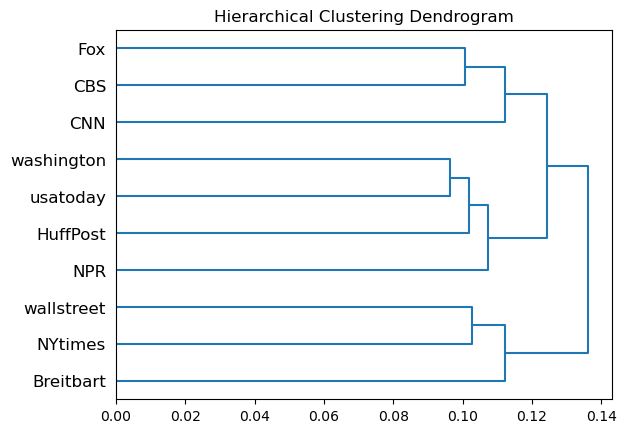
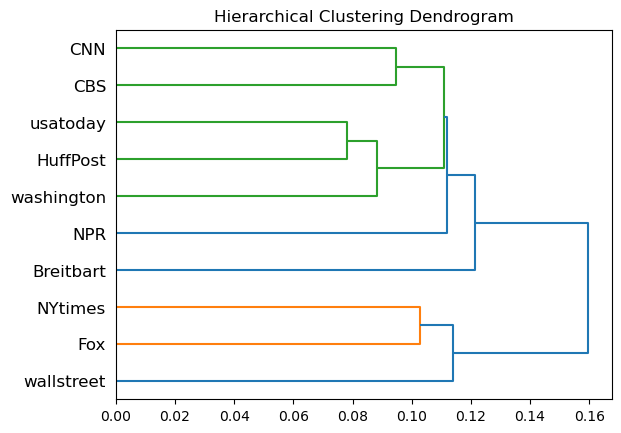
some problems

diff --git a/program/analysis.py b/program/analysis.py
@@ -106,13 +106,14 @@ class BaseAnalysis(ABC):
 
 
 class ClusterAnalysis(BaseAnalysis):
-    def __init__(self, misc_args: MiscArgument, model_args: ModelArguments, data_args: DataArguments, training_args: TrainingArguments, config: AnalysisArguments) -> None:
+    def __init__(self, misc_args: MiscArgument, model_args: ModelArguments, data_args: DataArguments, training_args: TrainingArguments, config: AnalysisArguments, pre_computer=False) -> None:
         super().__init__(misc_args, model_args, data_args, training_args, config)
-        self._load_analysis_model(self._config.analysis_cluster_method)
+        self._load_analysis_model(self._config.analysis_cluster_method, pre_computer)
 
     def _load_analysis_model(
         self,
-        cluster_method: str
+        cluster_method: str,
+        pre_computer
     ):
         if cluster_method == "KMeans":
             self._analyser = KMeans()
@@ -124,8 +125,12 @@ class ClusterAnalysis(BaseAnalysis):
             self._analyser = SpectralClustering()
         elif cluster_method == "AgglomerativeClustering":
             # self._analyser =  AgglomerativeClustering(n_clusters=2, compute_distances=True)
-            self._analyser = AgglomerativeClustering(
-                n_clusters=2, compute_distances=True, affinity='cosine', linkage='complete')
+            if not pre_computer:
+                self._analyser = AgglomerativeClustering(
+                    n_clusters=2, compute_distances=True, affinity='cosine', linkage='complete')
+            else:
+                self._analyser = AgglomerativeClustering(
+                    n_clusters=2, compute_distances=True, affinity='precomputed', linkage='complete')                
         elif cluster_method == "DBSCAN":
             self._analyser = DBSCAN(eps=0.5, min_samples=2)
         elif cluster_method == "OPTICS":

diff --git a/baseline.py b/baseline.py
@@ -117,16 +117,16 @@ def build_baseline(data_type, label_type):
     score = davies_bouldin_score(data,labels)
     print(score)
 
-    if not os.path.exists('./log/baseline/model/'):
-        os.makedirs('./log/baseline/model/')
-    model_file = './log/baseline/model/baseline_'+label_type+'_'+data_type+'.c'
-    joblib.dump(analyzer, model_file)
-    plt.title('Baseline')
-    plot_dendrogram(analyzer, orientation='right',
-                    labels=label_list)
-    plt_file = './analysis/baseline/baseline_'+label_type+'_'+data_type+'.png'
-    plt.savefig(plt_file, bbox_inches='tight')
-    plt.close()
+    # if not os.path.exists('./log/baseline/model/'):
+    #     os.makedirs('./log/baseline/model/')
+    # model_file = './log/baseline/model/baseline_'+label_type+'_'+data_type+'.c'
+    # joblib.dump(analyzer, model_file)
+    # plt.title('Baseline')
+    # plot_dendrogram(analyzer, orientation='right',
+    #                 labels=label_list)
+    # plt_file = './analysis/baseline/baseline_'+label_type+'_'+data_type+'.png'
+    # plt.savefig(plt_file, bbox_inches='tight')
+    # plt.close()
 
     # data = cosine_similarity(data)
     # data = pd.DataFrame(data,columns=label_list,index=label_list)

diff --git a/program/run_function.py b/program/run_function.py
@@ -533,6 +533,8 @@ def label_score_analysis(
         method = analysis_args.analysis_cluster_method
         analysis_model = ClusterAnalysis(
             misc_args, model_args, data_args, training_args, analysis_args)
+        precomputed_analysis_model = ClusterAnalysis(
+            misc_args, model_args, data_args, training_args, analysis_args,pre_computer=True)
     elif analysis_args.analysis_compare_method == 'distance':
         method = analysis_args.analysis_distance_method
         analysis_model = DistanceAnalysis(
@@ -604,7 +606,7 @@ def label_score_analysis(
                     len(encoded_a)
         analysis_data['media_average'] = average_distance_matrix
 
-        model, cluster_result, _, _ = analysis_model.analyze(
+        model, cluster_result, _, _ = precomputed_analysis_model.analyze(
             analysis_data['media_average'], 'media_average', analysis_args, encode=False, dataset_list=list(data_map.dataset_list))
         model_list['media_average'] = model
 
